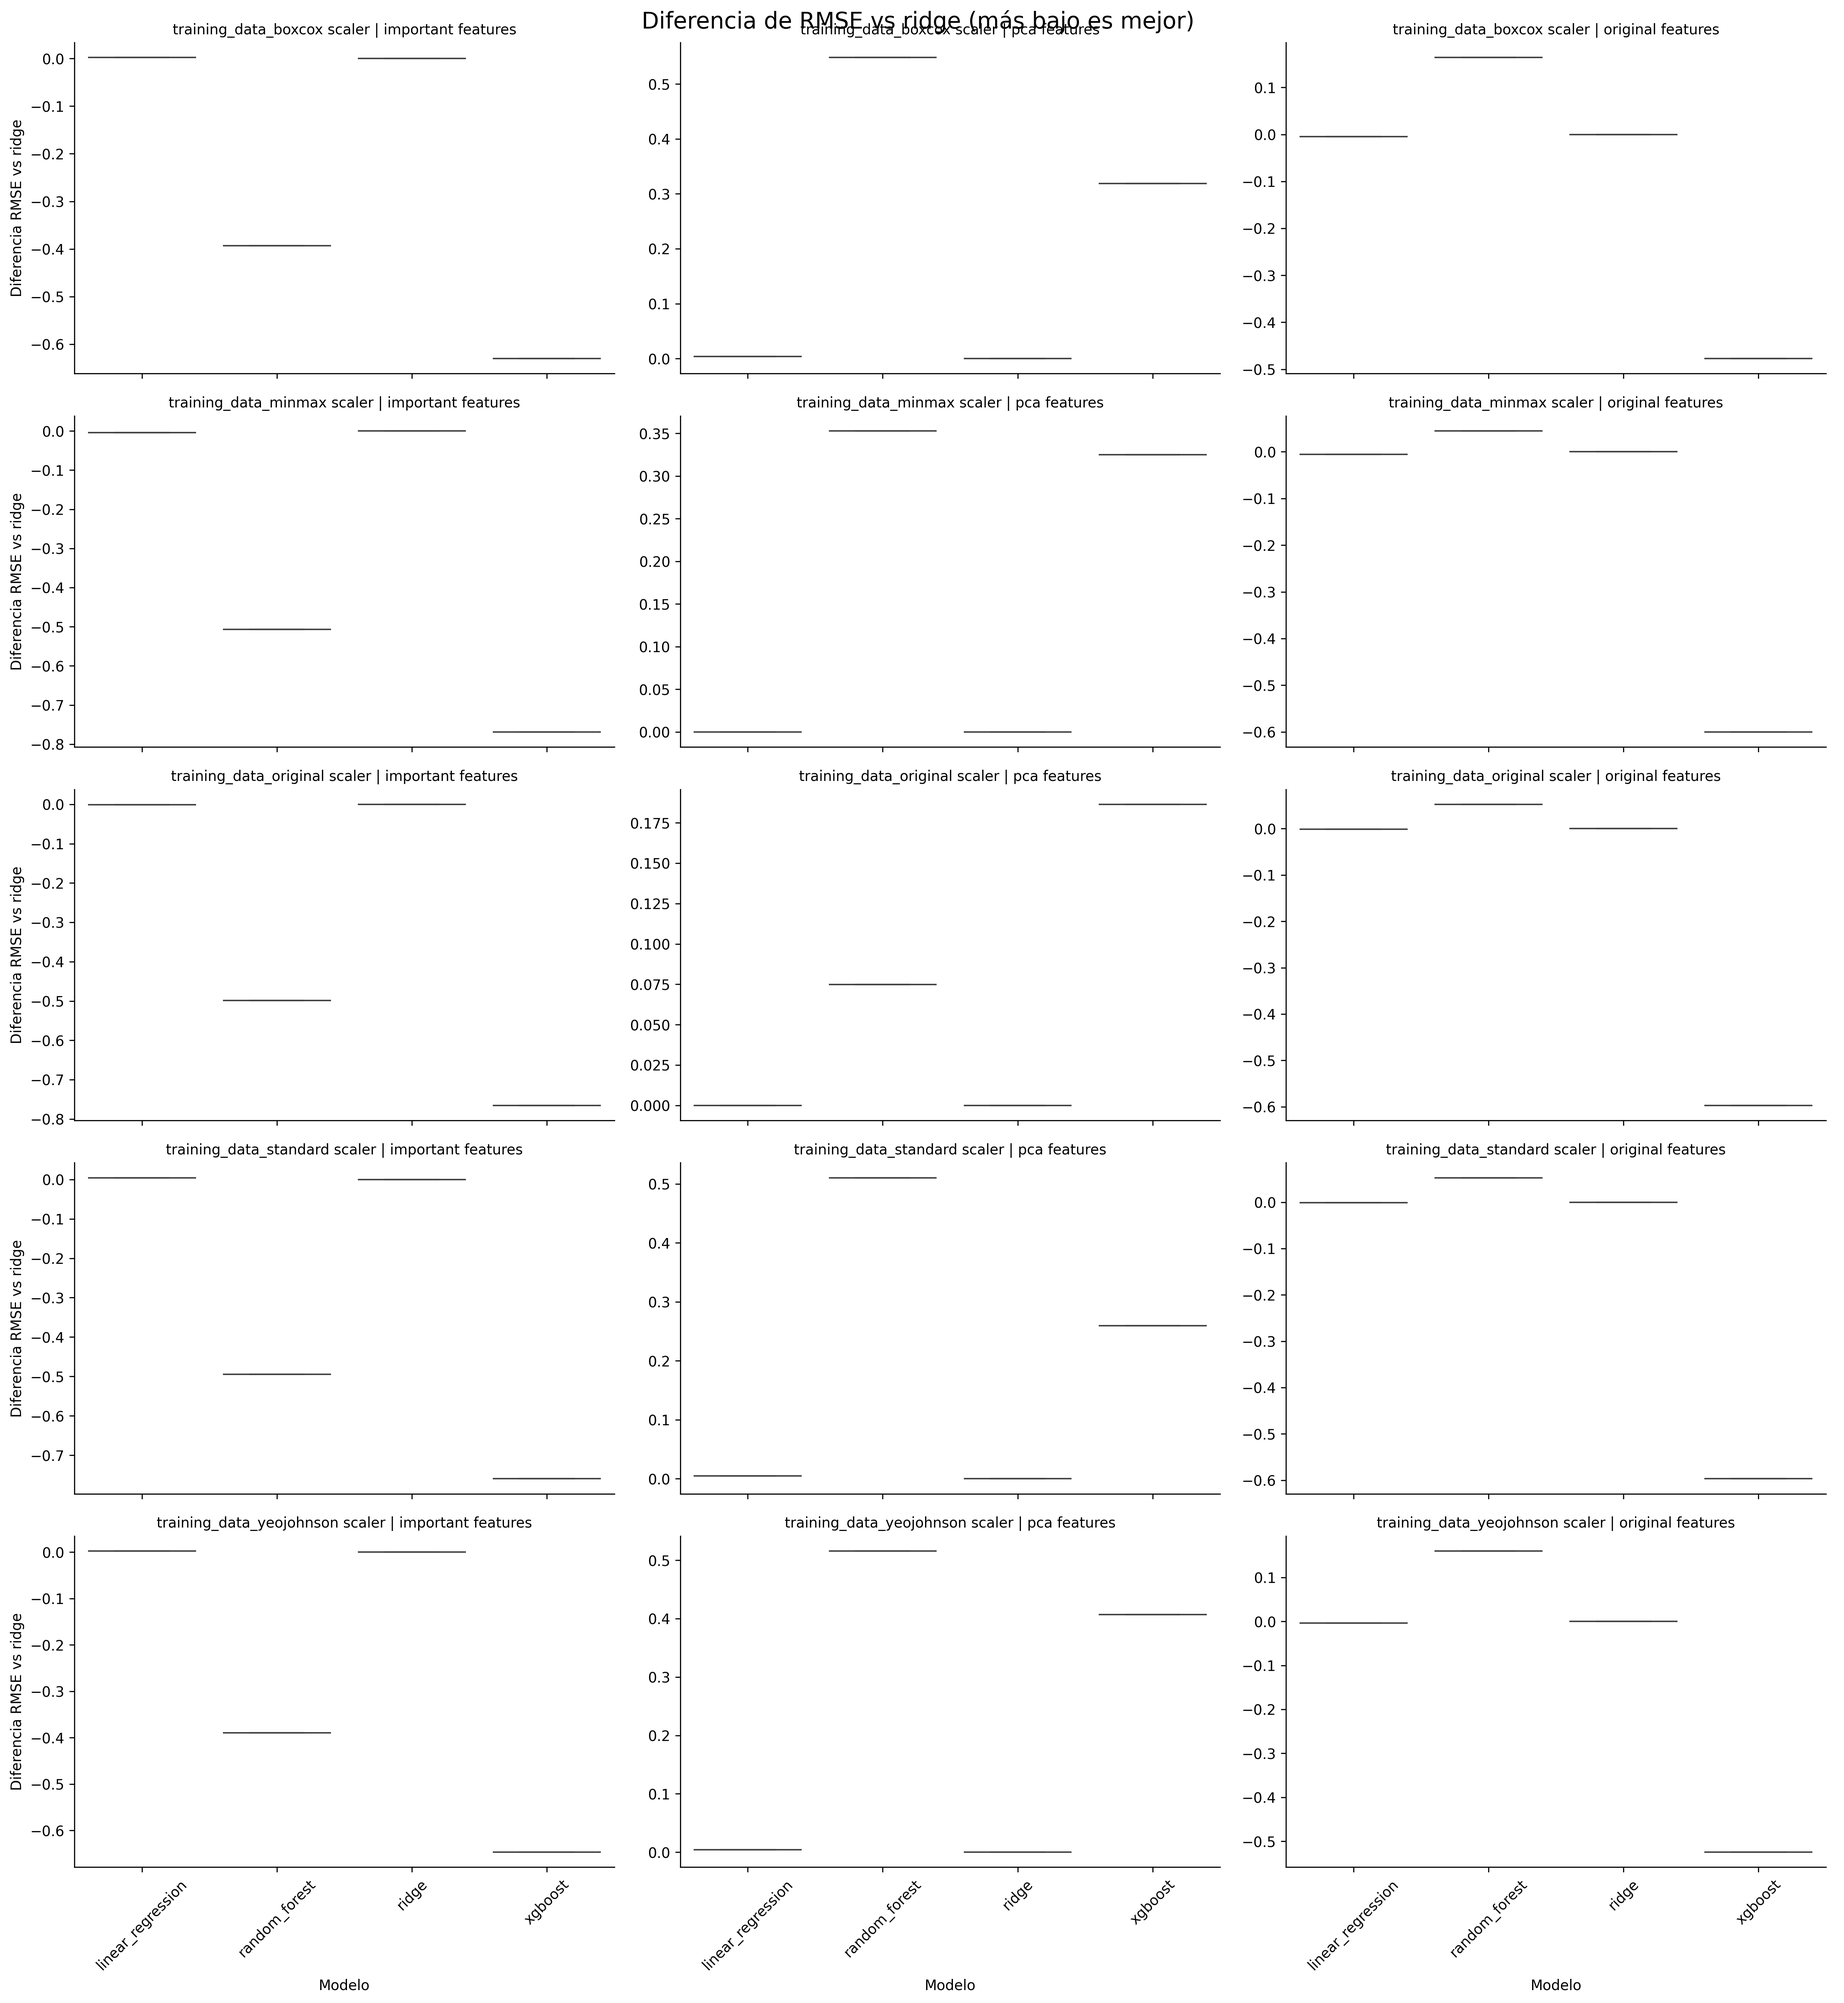
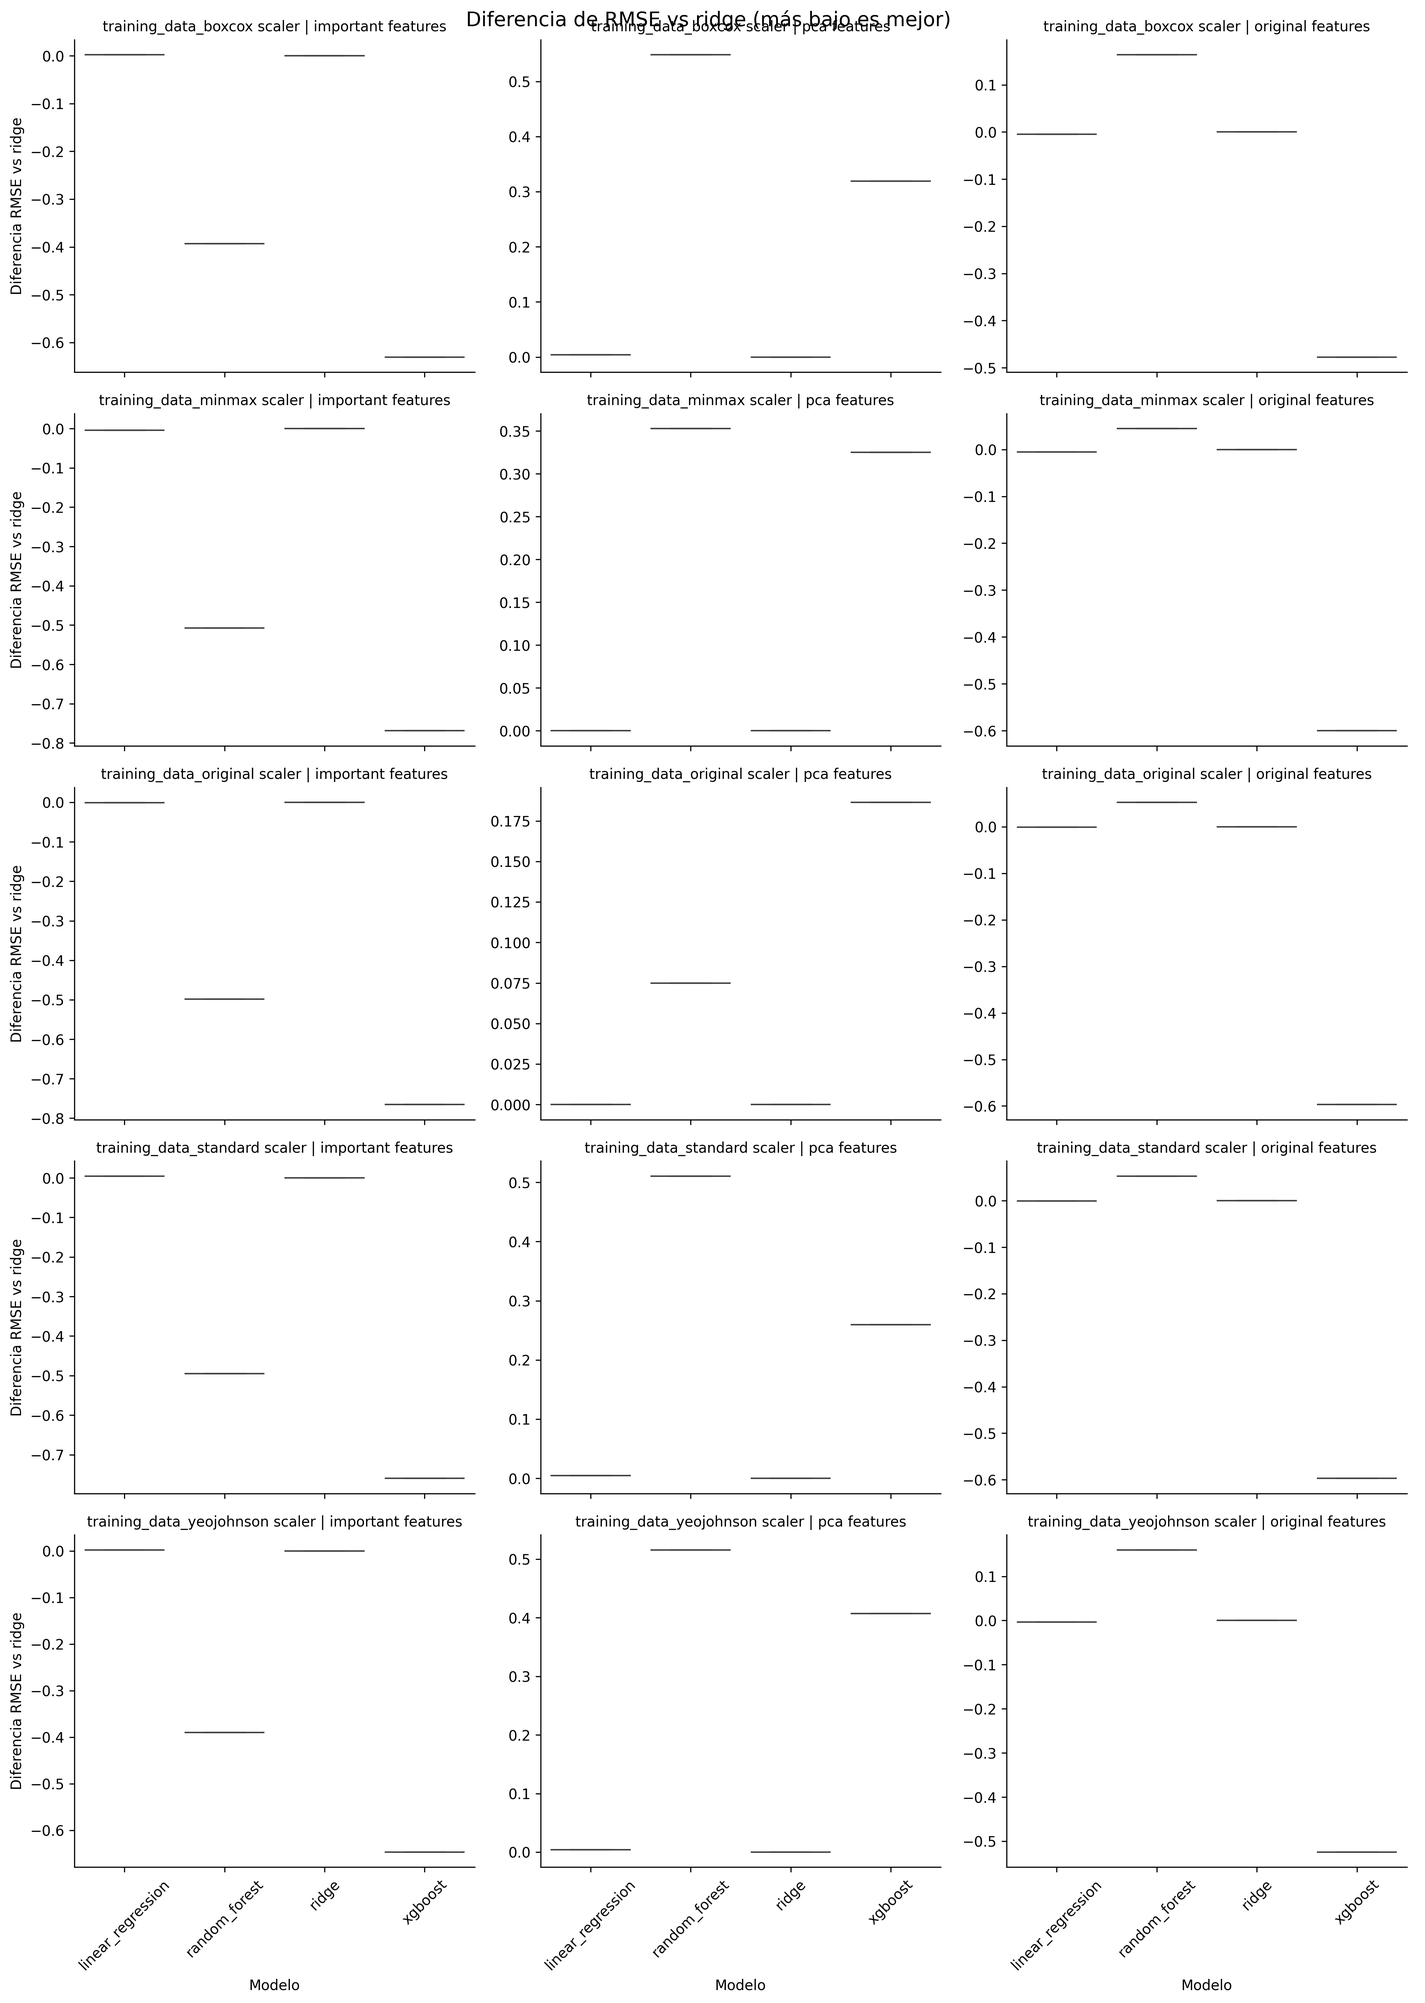
FEATURE: model selection

diff --git a/16_holdout_model_performance_visualization.py b/16_holdout_model_performance_visualization.py
@@ -9,7 +9,7 @@ from utils.registry import (
 
 # --- FUNCIÓN 1: Extraer métricas del registry ---
 
-def extract_model_metrics_from_registry(trained_registry):
+def extract_model_metrics_from_registry(trained_registry, metric):
     """
     Extrae las métricas de RMSE, escalador y tipo de transformación 
     desde un registro de modelos entrenados.
@@ -22,13 +22,13 @@ def extract_model_metrics_from_registry(trained_registry):
         scaler = "_".join(dataset_name.split("_")[:-1]) if "_" in dataset_name else dataset_name
         category = dataset_name.split('_')[-1]
         
-        rmse = model_info["original_metrics"]["rmse"]
+        metrica = model_info["original_metrics"][f"{metric}"]
 
         data.append({
             "scaler": scaler,
             "category": category,
             "model_name": model_name,
-            "rmse": rmse
+            f"{metric}": metrica
         })
 
     return pd.DataFrame(data)
@@ -36,26 +36,26 @@ def extract_model_metrics_from_registry(trained_registry):
 
 # --- FUNCIÓN 2: Plotear diferencias de RMSE vs modelo de referencia ---
 
-def plot_rmse_differences(df, reference_model, save_path, grid_title=None,
+def plot_metric_differences(df, metric, reference_model, save_path, grid_title=None,
                           scaler_order=None, transformation_order=None):
     """
     Genera y guarda un grid de boxplots con las diferencias de RMSE
     comparadas contra un modelo de referencia.
     """
-    ref_df = df[df["model_name"] == reference_model][["scaler", "category", "rmse"]]
-    ref_df = ref_df.rename(columns={"rmse": f"{reference_model}_rmse"})
+    ref_df = df[df["model_name"] == reference_model][["scaler", "category", f"{metric}"]]
+    ref_df = ref_df.rename(columns={f"{metric}": f"{reference_model}_{metric}"})
 
     comp_df = df.merge(ref_df, on=["scaler", "category"], how="left")
-    comp_df["rmse_diff"] = comp_df["rmse"] - comp_df[f"{reference_model}_rmse"]
+    comp_df[f"{metric}_diff"] = comp_df[f"{metric}"] - comp_df[f"{reference_model}_{metric}"]
 
     g = sns.catplot(
         data=comp_df,
         x="model_name",
-        y="rmse_diff",
+        y=f"{metric}_diff",
         row="scaler",
         col="category",
         kind="box",
-        height=4,
+        height=3,
         aspect=1.5,
         sharey=False,
         order=sorted(df["model_name"].unique()),
@@ -63,7 +63,7 @@ def plot_rmse_differences(df, reference_model, save_path, grid_title=None,
         col_order=transformation_order
     )
 
-    g.set_axis_labels("Modelo", f"Diferencia RMSE vs {reference_model}")
+    g.set_axis_labels("Modelo", f"Diferencia {metric} vs {reference_model}")
     g.set_titles(row_template="{row_name} scaler", col_template="{col_name} features")
 
     for ax in g.axes.flatten():
@@ -71,8 +71,10 @@ def plot_rmse_differences(df, reference_model, save_path, grid_title=None,
             label.set_rotation(45)
 
     if grid_title:
-        g.figure.suptitle(grid_title, fontsize=16)
-        g.figure.subplots_adjust(top=0.9)
+        g.figure.suptitle(grid_title, fontsize=14)
+        g.figure.subplots_adjust(top=1.5)
+    g.figure.set_size_inches(14, 20)
+
 
     plt.tight_layout()
     plt.savefig(save_path, dpi=300, bbox_inches='tight')
@@ -90,8 +92,10 @@ if __name__ == "__main__":
     performance_metrics = "data/predictions/original_performance_metrics/"
     path_validate(performance_metrics)
 
+    metric = 'r2'
+
     # Extraer DataFrame
-    df = extract_model_metrics_from_registry(trained_registry)
+    df = extract_model_metrics_from_registry(trained_registry, metric)
 
     # Definir órdenes de escaladores y transformaciones
     scaler_order = sorted(df["scaler"].unique())
@@ -102,10 +106,10 @@ if __name__ == "__main__":
 
     # Generar plots
     for ref_model in reference_models:
-        save_path = f"{performance_metrics}boxplot_diff_rmse_{ref_model}.png"
-        title = f"Diferencia de RMSE vs {ref_model} (más bajo es mejor)"
-        plot_rmse_differences(
-            df,
+        save_path = f"{performance_metrics}boxplot_diff_{metric}_{ref_model}.png"
+        title = f"Diferencia de {metric} vs {ref_model} (más bajo es mejor)"
+        plot_metric_differences(
+            df, metric,
             reference_model=ref_model,
             save_path=save_path,
             grid_title=title,

diff --git a/17_model_selection.py b/17_model_selection.py
@@ -1,1 +1,56 @@
-#model selection
+import os
+import pandas as pd
+import seaborn as sns
+import matplotlib.pyplot as plt
+from utils.storage import path_validate
+from utils.registry import (
+    load_registry,
+    load_trained_registry,
+    add_original_metrics_path_to_registry
+)
+
+# Cargar registros
+registry = load_registry()
+trained_registry = load_trained_registry()
+
+# Filtrar modelos xgboost
+xgboost_models = {k: v for k, v in trained_registry.items() if v.get("model_name") == "xgboost"}
+
+# Crear lista para almacenar resultados
+results = []
+
+for model_key, model_info in xgboost_models.items():
+    rmse = model_info.get("original_metrics", {}).get("rmse", None)
+    results.append({
+        "model_key": model_key,
+        "dataset_name": model_info.get("dataset_name"),
+        "rmse": rmse
+    })
+
+# Convertir a DataFrame
+df_rmse = pd.DataFrame(results)
+
+# Ordenar por RMSE ascendente (mejor primero)
+df_rmse_sorted = df_rmse.sort_values(by="rmse")
+
+print(df_rmse_sorted)
+print('-------------------------------------')
+for model_key, model_info in trained_registry.items():
+    rmse = model_info.get("original_metrics", {}).get("rmse", None)
+    results.append({
+        "model_key": model_key,
+        "model_name": model_info.get("model_name"),
+        "dataset_name": model_info.get("dataset_name"),
+        "rmse": rmse
+    })
+
+# Convertir a DataFrame
+df_rmse = pd.DataFrame(results)
+
+# Eliminar filas donde rmse es None (si hay)
+df_rmse = df_rmse.dropna(subset=["rmse"])
+
+# Ordenar por RMSE ascendente y obtener top 5
+top5_models = df_rmse.sort_values(by="rmse").head(5)
+
+print(top5_models)
